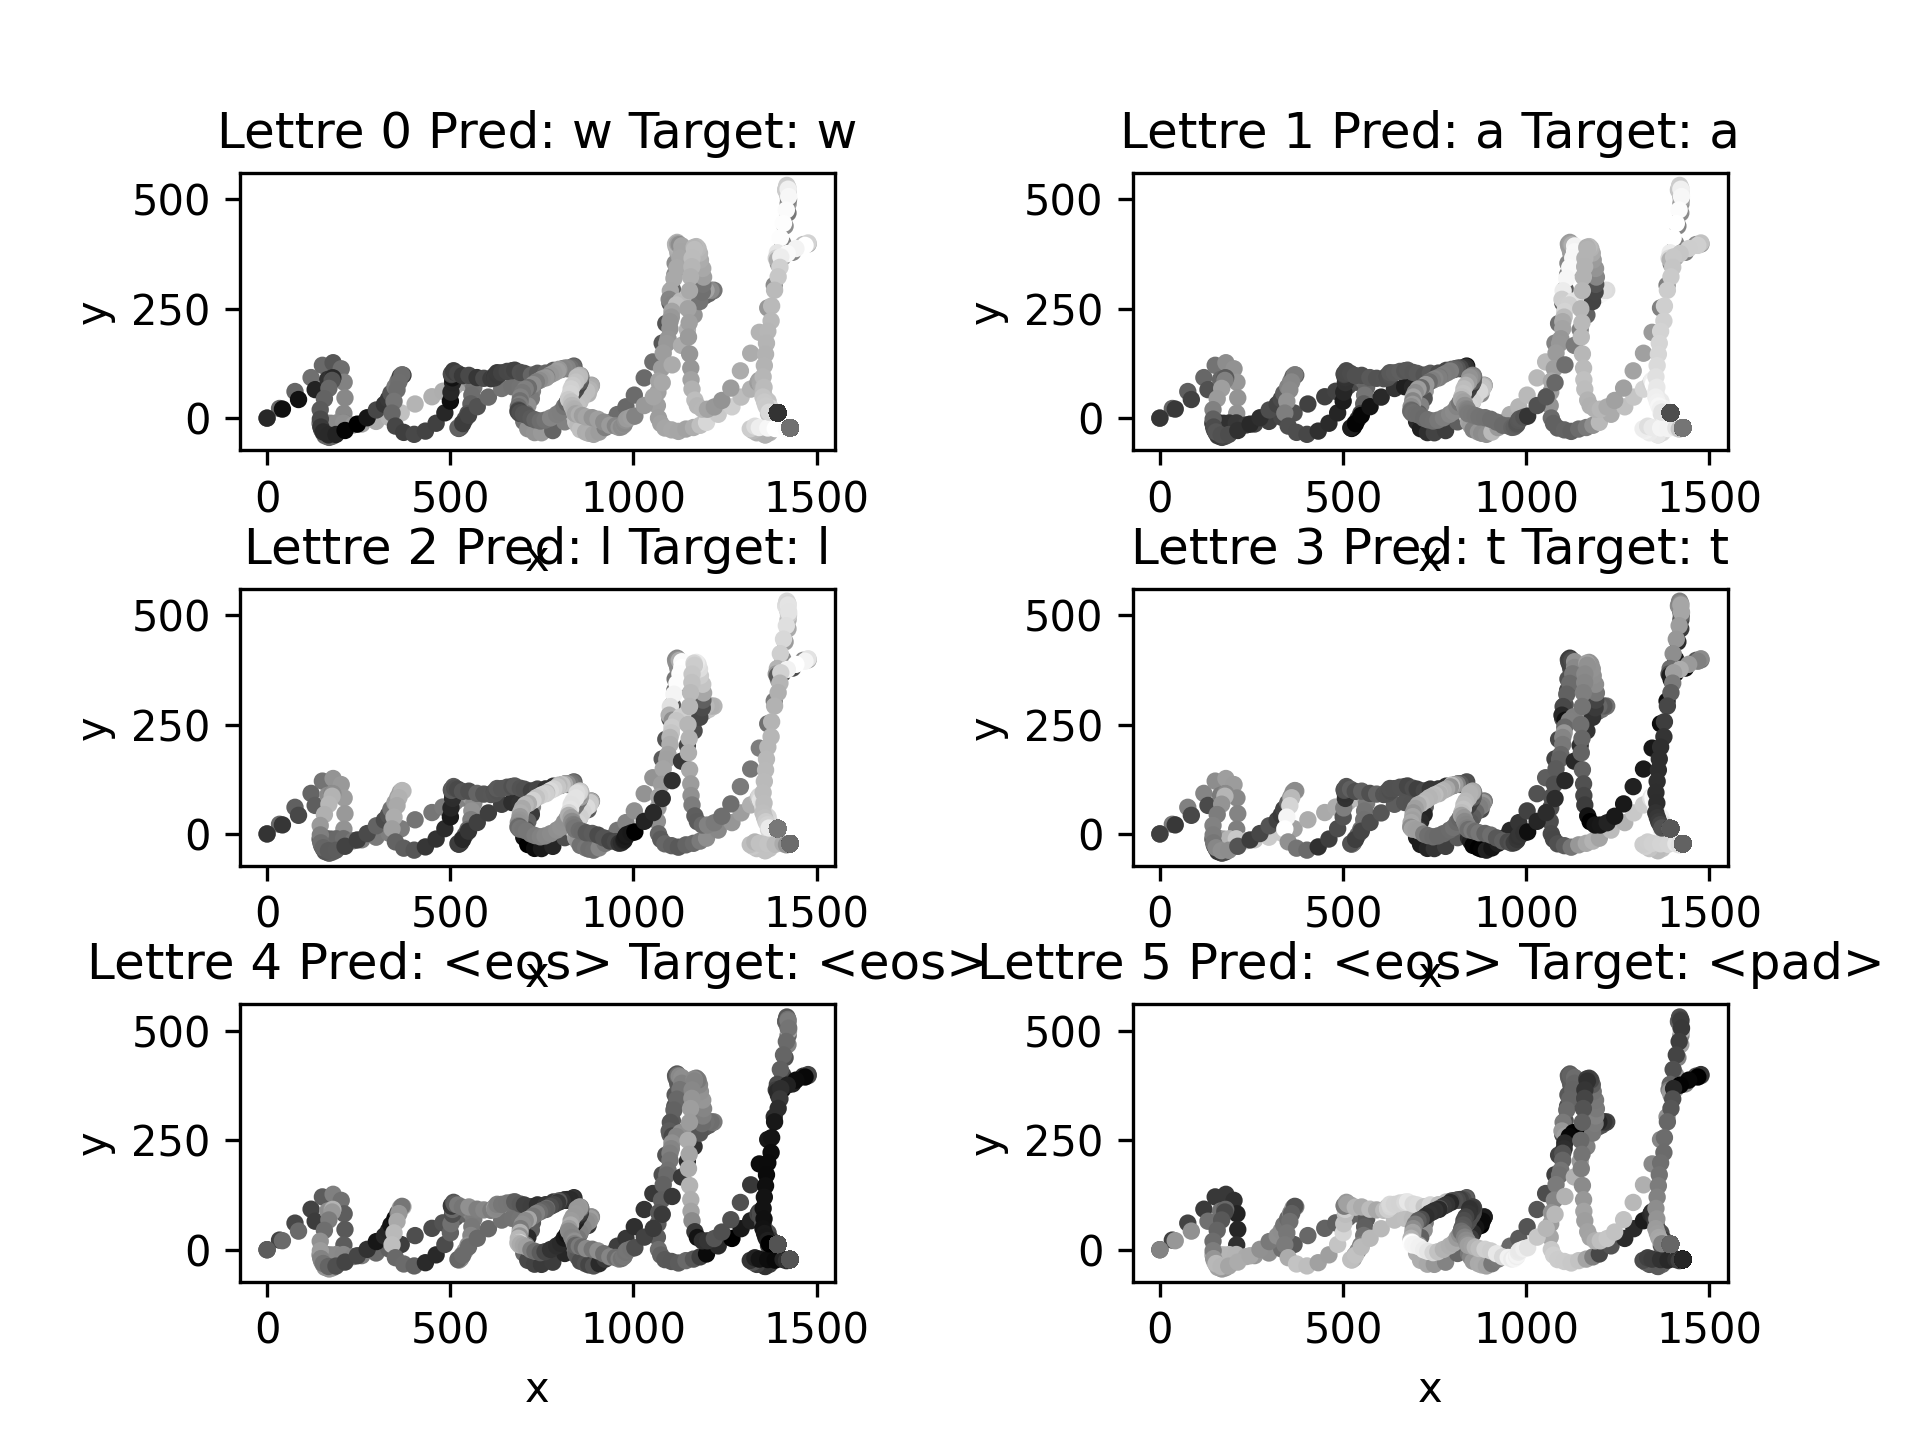
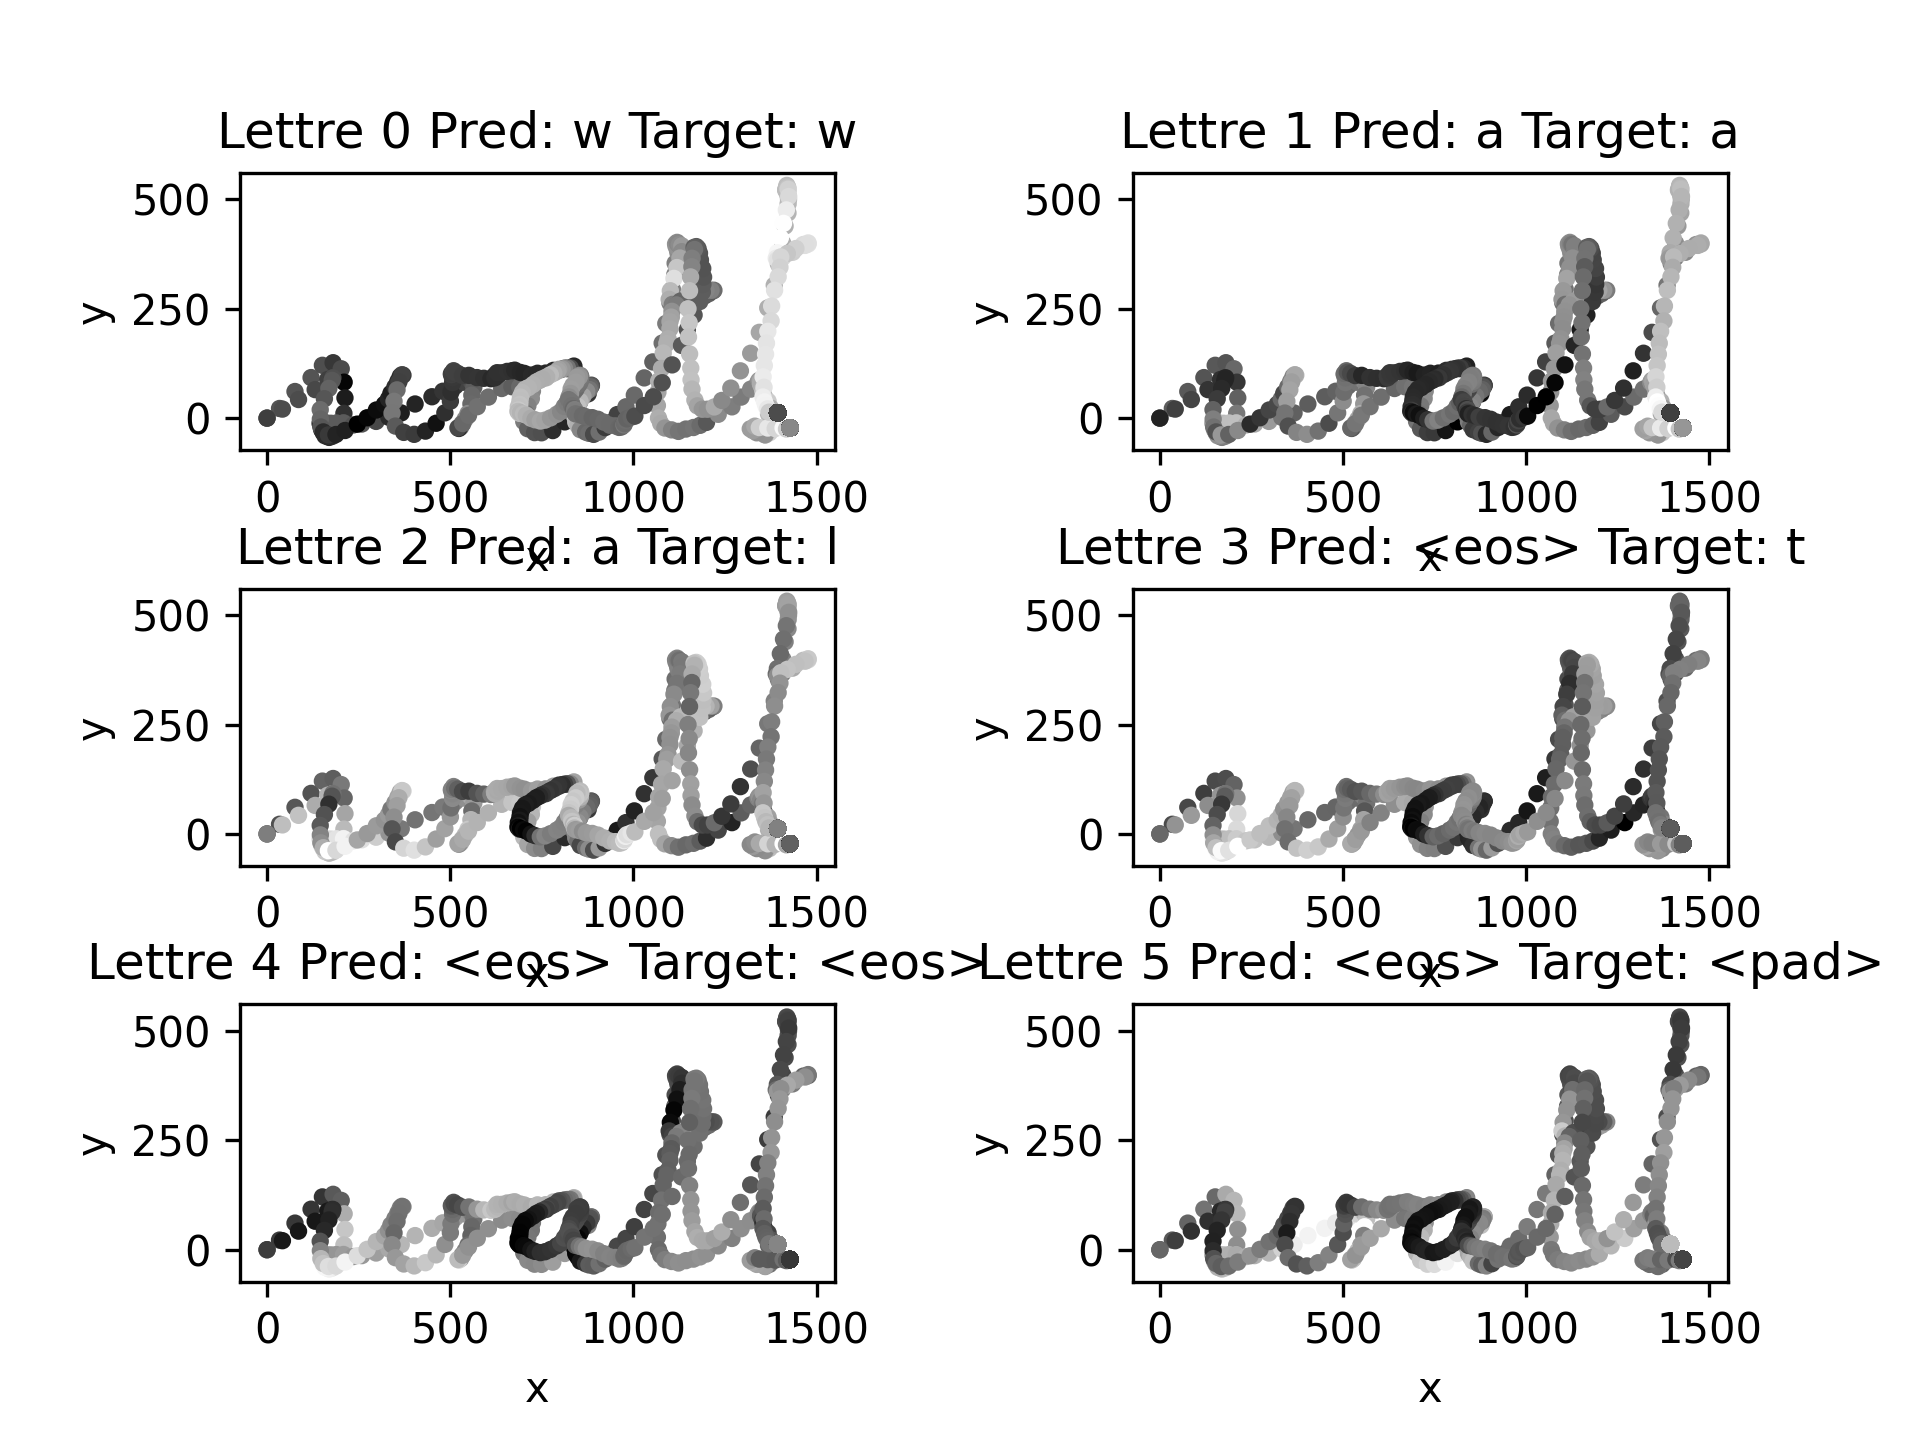
final pour vrai

diff --git a/main.py b/main.py
@@ -15,7 +15,7 @@ if __name__ == '__main__':
 
     # ---------------- Paramètres et hyperparamètres ----------------#
     force_cpu = False           # Forcer a utiliser le cpu?
-    trainning = False           # Entrainement?
+    trainning = True           # Entrainement?
     test = True                # Test?
     learning_curves = True     # Affichage des courbes d'entrainement?
     gen_test_images = True     # Génération images test?
